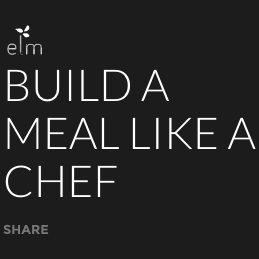
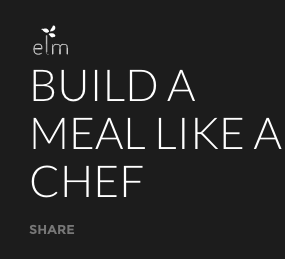
new screenshots

diff --git a/toolkits/popular-mechanics/build-a-go-kart-like-a-champ.html b/toolkits/popular-mechanics/build-a-go-kart-like-a-champ.html
@@ -1,5 +1,5 @@
 <!DOCTYPE html><html lang="en"><head><meta charset="UTF-8"><meta name="description" content="WeBuildMen.org is a place to get the know how, tools and support to help build tomorrow's men, today."><meta name="keywords" content="We Build Men Mentoring Makeable Esquire"><meta name="author" content="Makeable"><meta name="viewport" content="width=device-width, initial-scale=1.0"><title>We Build Men</title><style>[data-aload] { background-image: none !important; }
-</style><script src="//cdnjs.cloudflare.com/ajax/libs/headjs/1.0.3/head.min.js"></script><script type="text/javascript">function aload(a){"use strict";a=a||window.document.querySelectorAll("[data-aload]"),void 0===a.length&&(a=[a]);var b,c=0,d=a.length;for(c;d>c;c+=1)b=a[c],b["LINK"!==b.tagName?"src":"href"]=b.getAttribute("data-aload"),b.removeAttribute("data-aload");return a}</script><meta property="og:site_name" content="We Build Men"><meta property="og:locale" content="en_US"><title>We Build Men: Build a Go-Kart like a Champ</title><meta property="og:title" content="We Build Men: Build a Go-Kart like a Champ"><meta property="og:description" content="Guidelines and tips that’ll only take you a day"><meta property="og:url" content="http://staging.webuildmen.org/toolkits/popular-mechanics/build-a-go-kart-like-a-champ.html"><meta property="og:image" content="http://staging.webuildmen.org/toolkits/popular-mechanics/screenshot.png"><link rel="apple-touch-icon" sizes="57x57" href="/assets/favicon/apple-touch-icon-57x57.png"><link rel="apple-touch-icon" sizes="114x114" href="/assets/favicon/apple-touch-icon-114x114.png"><link rel="apple-touch-icon" sizes="72x72" href="/assets/favicon/apple-touch-icon-72x72.png"><link rel="apple-touch-icon" sizes="144x144" href="/assets/favicon/apple-touch-icon-144x144.png"><link rel="apple-touch-icon" sizes="60x60" href="/assets/favicon/apple-touch-icon-60x60.png"><link rel="apple-touch-icon" sizes="120x120" href="/assets/favicon/apple-touch-icon-120x120.png"><link rel="apple-touch-icon" sizes="76x76" href="/assets/favicon/apple-touch-icon-76x76.png"><link rel="apple-touch-icon" sizes="152x152" href="/assets/favicon/apple-touch-icon-152x152.png"><link rel="icon" type="image/png" href="/assets/favicon/favicon-196x196.png" sizes="196x196"><link rel="icon" type="image/png" href="/assets/favicon/favicon-160x160.png" sizes="160x160"><link rel="icon" type="image/png" href="/assets/favicon/favicon-96x96.png" sizes="96x96"><link rel="icon" type="image/png" href="/assets/favicon/favicon-16x16.png" sizes="16x16"><link rel="icon" type="image/png" href="/assets/favicon/favicon-32x32.png" sizes="32x32"><meta name="msapplication-TileColor" content="#000000"><meta name="msapplication-TileImage" content="/assets/favicon/mstile-144x144.png"><link rel="stylesheet" href="/css/styles.css"><link href="http://fonts.googleapis.com/css?family=Lato:300,400,700,900,400italic%7CMontserrat:700,400%7CHomemade+Apple%7CLobster+Two:400,400italic%7Cfamily=Quattrocento:400,700" rel="stylesheet" type="text/css"><!--if lt IE 9script(src='/js/html5shiv.js')
+</style><script src="//cdnjs.cloudflare.com/ajax/libs/headjs/1.0.3/head.min.js"></script><script type="text/javascript">function aload(a){"use strict";a=a||window.document.querySelectorAll("[data-aload]"),void 0===a.length&&(a=[a]);var b,c=0,d=a.length;for(c;d>c;c+=1)b=a[c],b["LINK"!==b.tagName?"src":"href"]=b.getAttribute("data-aload"),b.removeAttribute("data-aload");return a}</script><meta property="og:site_name" content="We Build Men"><meta property="og:locale" content="en_US"><title>We Build Men: Build a Go-Kart like a Champ</title><meta property="og:title" content="We Build Men and Popular Mechanics: Build a Go-Kart like a Champ"><meta property="og:description" content="Guidelines and tips that’ll only take you a day"><meta property="og:url" content="http://staging.webuildmen.org/toolkits/popular-mechanics/build-a-go-kart-like-a-champ.html"><meta property="og:image" content="http://staging.webuildmen.org/toolkits/popular-mechanics/screenshot.png"><link rel="apple-touch-icon" sizes="57x57" href="/assets/favicon/apple-touch-icon-57x57.png"><link rel="apple-touch-icon" sizes="114x114" href="/assets/favicon/apple-touch-icon-114x114.png"><link rel="apple-touch-icon" sizes="72x72" href="/assets/favicon/apple-touch-icon-72x72.png"><link rel="apple-touch-icon" sizes="144x144" href="/assets/favicon/apple-touch-icon-144x144.png"><link rel="apple-touch-icon" sizes="60x60" href="/assets/favicon/apple-touch-icon-60x60.png"><link rel="apple-touch-icon" sizes="120x120" href="/assets/favicon/apple-touch-icon-120x120.png"><link rel="apple-touch-icon" sizes="76x76" href="/assets/favicon/apple-touch-icon-76x76.png"><link rel="apple-touch-icon" sizes="152x152" href="/assets/favicon/apple-touch-icon-152x152.png"><link rel="icon" type="image/png" href="/assets/favicon/favicon-196x196.png" sizes="196x196"><link rel="icon" type="image/png" href="/assets/favicon/favicon-160x160.png" sizes="160x160"><link rel="icon" type="image/png" href="/assets/favicon/favicon-96x96.png" sizes="96x96"><link rel="icon" type="image/png" href="/assets/favicon/favicon-16x16.png" sizes="16x16"><link rel="icon" type="image/png" href="/assets/favicon/favicon-32x32.png" sizes="32x32"><meta name="msapplication-TileColor" content="#000000"><meta name="msapplication-TileImage" content="/assets/favicon/mstile-144x144.png"><link rel="stylesheet" href="/css/styles.css"><link href="http://fonts.googleapis.com/css?family=Lato:300,400,700,900,400italic%7CMontserrat:700,400%7CHomemade+Apple%7CLobster+Two:400,400italic%7Cfamily=Quattrocento:400,700" rel="stylesheet" type="text/css"><!--if lt IE 9script(src='/js/html5shiv.js')
 script(src='/js/respond.min.js')
 
 

diff --git a/toolkits/chef-brian-lewis/cook-a-meal-like-a-chef.html b/toolkits/chef-brian-lewis/cook-a-meal-like-a-chef.html
@@ -1,5 +1,5 @@
 <!DOCTYPE html><html lang="en"><head><meta charset="UTF-8"><meta name="description" content="WeBuildMen.org is a place to get the know how, tools and support to help build tomorrow's men, today."><meta name="keywords" content="We Build Men Mentoring Makeable Esquire"><meta name="author" content="Makeable"><meta name="viewport" content="width=device-width, initial-scale=1.0"><title>We Build Men</title><style>[data-aload] { background-image: none !important; }
-</style><script src="//cdnjs.cloudflare.com/ajax/libs/headjs/1.0.3/head.min.js"></script><script type="text/javascript">function aload(a){"use strict";a=a||window.document.querySelectorAll("[data-aload]"),void 0===a.length&&(a=[a]);var b,c=0,d=a.length;for(c;d>c;c+=1)b=a[c],b["LINK"!==b.tagName?"src":"href"]=b.getAttribute("data-aload"),b.removeAttribute("data-aload");return a}</script><meta property="og:site_name" content="We Build Men"><meta property="og:locale" content="en_US"><title>We Build Men: Build a Meal Like a Chef</title><meta property="og:title" content="We Build Men: Build a Meal Like a Chef"><meta property="og:description" content="Shop, prep, and dish it up all in an evening"><meta property="og:url" content="http://staging.webuildmen.org/toolkits/popular-mechanics/cool-a-meal-like-a-chef.html"><meta property="og:image" content="http://staging.webuildmen.org/toolkits/chef-brian-lewis/screenshot.png"><link rel="apple-touch-icon" sizes="57x57" href="/assets/favicon/apple-touch-icon-57x57.png"><link rel="apple-touch-icon" sizes="114x114" href="/assets/favicon/apple-touch-icon-114x114.png"><link rel="apple-touch-icon" sizes="72x72" href="/assets/favicon/apple-touch-icon-72x72.png"><link rel="apple-touch-icon" sizes="144x144" href="/assets/favicon/apple-touch-icon-144x144.png"><link rel="apple-touch-icon" sizes="60x60" href="/assets/favicon/apple-touch-icon-60x60.png"><link rel="apple-touch-icon" sizes="120x120" href="/assets/favicon/apple-touch-icon-120x120.png"><link rel="apple-touch-icon" sizes="76x76" href="/assets/favicon/apple-touch-icon-76x76.png"><link rel="apple-touch-icon" sizes="152x152" href="/assets/favicon/apple-touch-icon-152x152.png"><link rel="icon" type="image/png" href="/assets/favicon/favicon-196x196.png" sizes="196x196"><link rel="icon" type="image/png" href="/assets/favicon/favicon-160x160.png" sizes="160x160"><link rel="icon" type="image/png" href="/assets/favicon/favicon-96x96.png" sizes="96x96"><link rel="icon" type="image/png" href="/assets/favicon/favicon-16x16.png" sizes="16x16"><link rel="icon" type="image/png" href="/assets/favicon/favicon-32x32.png" sizes="32x32"><meta name="msapplication-TileColor" content="#000000"><meta name="msapplication-TileImage" content="/assets/favicon/mstile-144x144.png"><link rel="stylesheet" href="/css/styles.css"><link href="http://fonts.googleapis.com/css?family=Lato:300,400,700,900,400italic%7CMontserrat:700,400%7CHomemade+Apple%7CLobster+Two:400,400italic%7Cfamily=Quattrocento:400,700" rel="stylesheet" type="text/css"><!--if lt IE 9script(src='/js/html5shiv.js')
+</style><script src="//cdnjs.cloudflare.com/ajax/libs/headjs/1.0.3/head.min.js"></script><script type="text/javascript">function aload(a){"use strict";a=a||window.document.querySelectorAll("[data-aload]"),void 0===a.length&&(a=[a]);var b,c=0,d=a.length;for(c;d>c;c+=1)b=a[c],b["LINK"!==b.tagName?"src":"href"]=b.getAttribute("data-aload"),b.removeAttribute("data-aload");return a}</script><meta property="og:site_name" content="We Build Men"><meta property="og:locale" content="en_US"><title>We Build Men: Build a Meal Like a Chef</title><meta property="og:title" content="We Build Men and Elm: Build a Meal Like a Chef"><meta property="og:description" content="Shop, prep, and dish it up all in an evening"><meta property="og:url" content="http://staging.webuildmen.org/toolkits/popular-mechanics/cool-a-meal-like-a-chef.html"><meta property="og:image" content="http://staging.webuildmen.org/toolkits/chef-brian-lewis/screenshot.png"><link rel="apple-touch-icon" sizes="57x57" href="/assets/favicon/apple-touch-icon-57x57.png"><link rel="apple-touch-icon" sizes="114x114" href="/assets/favicon/apple-touch-icon-114x114.png"><link rel="apple-touch-icon" sizes="72x72" href="/assets/favicon/apple-touch-icon-72x72.png"><link rel="apple-touch-icon" sizes="144x144" href="/assets/favicon/apple-touch-icon-144x144.png"><link rel="apple-touch-icon" sizes="60x60" href="/assets/favicon/apple-touch-icon-60x60.png"><link rel="apple-touch-icon" sizes="120x120" href="/assets/favicon/apple-touch-icon-120x120.png"><link rel="apple-touch-icon" sizes="76x76" href="/assets/favicon/apple-touch-icon-76x76.png"><link rel="apple-touch-icon" sizes="152x152" href="/assets/favicon/apple-touch-icon-152x152.png"><link rel="icon" type="image/png" href="/assets/favicon/favicon-196x196.png" sizes="196x196"><link rel="icon" type="image/png" href="/assets/favicon/favicon-160x160.png" sizes="160x160"><link rel="icon" type="image/png" href="/assets/favicon/favicon-96x96.png" sizes="96x96"><link rel="icon" type="image/png" href="/assets/favicon/favicon-16x16.png" sizes="16x16"><link rel="icon" type="image/png" href="/assets/favicon/favicon-32x32.png" sizes="32x32"><meta name="msapplication-TileColor" content="#000000"><meta name="msapplication-TileImage" content="/assets/favicon/mstile-144x144.png"><link rel="stylesheet" href="/css/styles.css"><link href="http://fonts.googleapis.com/css?family=Lato:300,400,700,900,400italic%7CMontserrat:700,400%7CHomemade+Apple%7CLobster+Two:400,400italic%7Cfamily=Quattrocento:400,700" rel="stylesheet" type="text/css"><!--if lt IE 9script(src='/js/html5shiv.js')
 script(src='/js/respond.min.js')
 
 

diff --git a/toolkits/esquire/build-a-blog-like-a-pro.html b/toolkits/esquire/build-a-blog-like-a-pro.html
@@ -1,5 +1,5 @@
 <!DOCTYPE html><html lang="en"><head><meta charset="UTF-8"><meta name="description" content="WeBuildMen.org is a place to get the know how, tools and support to help build tomorrow's men, today."><meta name="keywords" content="We Build Men Mentoring Makeable Esquire"><meta name="author" content="Makeable"><meta name="viewport" content="width=device-width, initial-scale=1.0"><title>We Build Men</title><style>[data-aload] { background-image: none !important; }
-</style><script src="//cdnjs.cloudflare.com/ajax/libs/headjs/1.0.3/head.min.js"></script><script type="text/javascript">function aload(a){"use strict";a=a||window.document.querySelectorAll("[data-aload]"),void 0===a.length&&(a=[a]);var b,c=0,d=a.length;for(c;d>c;c+=1)b=a[c],b["LINK"!==b.tagName?"src":"href"]=b.getAttribute("data-aload"),b.removeAttribute("data-aload");return a}</script><meta property="og:site_name" content="We Build Men"><meta property="og:locale" content="en_US"><title>We Build Men: Build a Blog Like a Pro</title><meta property="og:title" content="We Build Men: Build a Blog Like a Pro"><meta property="og:description" content="Tools, hacks and tips that’ll get you live in an afternoon"><meta property="og:url" content="http://staging.webuildmen.org/toolkits/esquire/build-a-blog-like-a-pro.html"><meta property="og:image" content="http://staging.webuildmen.org/toolkits/esquire/screenshot.png"><link rel="apple-touch-icon" sizes="57x57" href="/assets/favicon/apple-touch-icon-57x57.png"><link rel="apple-touch-icon" sizes="114x114" href="/assets/favicon/apple-touch-icon-114x114.png"><link rel="apple-touch-icon" sizes="72x72" href="/assets/favicon/apple-touch-icon-72x72.png"><link rel="apple-touch-icon" sizes="144x144" href="/assets/favicon/apple-touch-icon-144x144.png"><link rel="apple-touch-icon" sizes="60x60" href="/assets/favicon/apple-touch-icon-60x60.png"><link rel="apple-touch-icon" sizes="120x120" href="/assets/favicon/apple-touch-icon-120x120.png"><link rel="apple-touch-icon" sizes="76x76" href="/assets/favicon/apple-touch-icon-76x76.png"><link rel="apple-touch-icon" sizes="152x152" href="/assets/favicon/apple-touch-icon-152x152.png"><link rel="icon" type="image/png" href="/assets/favicon/favicon-196x196.png" sizes="196x196"><link rel="icon" type="image/png" href="/assets/favicon/favicon-160x160.png" sizes="160x160"><link rel="icon" type="image/png" href="/assets/favicon/favicon-96x96.png" sizes="96x96"><link rel="icon" type="image/png" href="/assets/favicon/favicon-16x16.png" sizes="16x16"><link rel="icon" type="image/png" href="/assets/favicon/favicon-32x32.png" sizes="32x32"><meta name="msapplication-TileColor" content="#000000"><meta name="msapplication-TileImage" content="/assets/favicon/mstile-144x144.png"><link rel="stylesheet" href="/css/styles.css"><link href="http://fonts.googleapis.com/css?family=Lato:300,400,700,900,400italic%7CMontserrat:700,400%7CHomemade+Apple%7CLobster+Two:400,400italic%7Cfamily=Quattrocento:400,700" rel="stylesheet" type="text/css"><!--if lt IE 9script(src='/js/html5shiv.js')
+</style><script src="//cdnjs.cloudflare.com/ajax/libs/headjs/1.0.3/head.min.js"></script><script type="text/javascript">function aload(a){"use strict";a=a||window.document.querySelectorAll("[data-aload]"),void 0===a.length&&(a=[a]);var b,c=0,d=a.length;for(c;d>c;c+=1)b=a[c],b["LINK"!==b.tagName?"src":"href"]=b.getAttribute("data-aload"),b.removeAttribute("data-aload");return a}</script><meta property="og:site_name" content="We Build Men"><meta property="og:locale" content="en_US"><title>We Build Men: Build a Blog Like a Pro</title><meta property="og:title" content="We Build Men and Esquire: Build a Blog Like a Pro"><meta property="og:description" content="Tools, hacks and tips that’ll get you live in an afternoon"><meta property="og:url" content="http://staging.webuildmen.org/toolkits/esquire/build-a-blog-like-a-pro.html"><meta property="og:image" content="http://staging.webuildmen.org/toolkits/esquire/screenshot.png"><link rel="apple-touch-icon" sizes="57x57" href="/assets/favicon/apple-touch-icon-57x57.png"><link rel="apple-touch-icon" sizes="114x114" href="/assets/favicon/apple-touch-icon-114x114.png"><link rel="apple-touch-icon" sizes="72x72" href="/assets/favicon/apple-touch-icon-72x72.png"><link rel="apple-touch-icon" sizes="144x144" href="/assets/favicon/apple-touch-icon-144x144.png"><link rel="apple-touch-icon" sizes="60x60" href="/assets/favicon/apple-touch-icon-60x60.png"><link rel="apple-touch-icon" sizes="120x120" href="/assets/favicon/apple-touch-icon-120x120.png"><link rel="apple-touch-icon" sizes="76x76" href="/assets/favicon/apple-touch-icon-76x76.png"><link rel="apple-touch-icon" sizes="152x152" href="/assets/favicon/apple-touch-icon-152x152.png"><link rel="icon" type="image/png" href="/assets/favicon/favicon-196x196.png" sizes="196x196"><link rel="icon" type="image/png" href="/assets/favicon/favicon-160x160.png" sizes="160x160"><link rel="icon" type="image/png" href="/assets/favicon/favicon-96x96.png" sizes="96x96"><link rel="icon" type="image/png" href="/assets/favicon/favicon-16x16.png" sizes="16x16"><link rel="icon" type="image/png" href="/assets/favicon/favicon-32x32.png" sizes="32x32"><meta name="msapplication-TileColor" content="#000000"><meta name="msapplication-TileImage" content="/assets/favicon/mstile-144x144.png"><link rel="stylesheet" href="/css/styles.css"><link href="http://fonts.googleapis.com/css?family=Lato:300,400,700,900,400italic%7CMontserrat:700,400%7CHomemade+Apple%7CLobster+Two:400,400italic%7Cfamily=Quattrocento:400,700" rel="stylesheet" type="text/css"><!--if lt IE 9script(src='/js/html5shiv.js')
 script(src='/js/respond.min.js')
 
 
